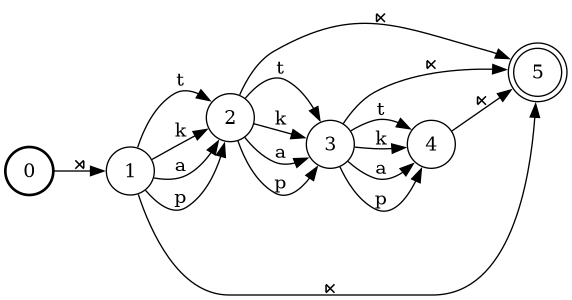
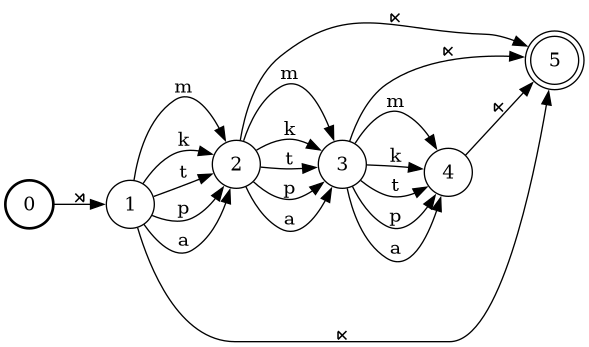
sample from loglinear model

diff --git a/wynini/loglinear.py b/wynini/loglinear.py
@@ -138,9 +138,50 @@ def assign_weights_vec(wfst, V, w):
     return wfst
 
 
+def logZ(wfst, w=None, verbose=False):
+    """
+    Log partition function given feature weights w -or-
+    with weights already applied.
+    All feature values and weights should be non-negative.
+    """
+    if w:
+        assign_weights(wfst, w)
+
+    # Backward potentials (for each state q,
+    # sum over all paths from q to finals).
+    beta = shortestdistance(wfst, reverse=True)
+    beta = [float(w) for w in beta]
+    if verbose:
+        print(f'beta: {beta}')
+
+    # Log partition function
+    # (sum over all paths through machine).
+    q0 = wfst.start_id()
+    logZ = -beta[q0]
+    if verbose:
+        print(f'logZ: {logZ}')
+
+    return logZ
+
+
+def sample(wfst, n=1, w=None, ret_type='outputs', verbose=False):
+    """
+    Random sample of paths (with replacement) given
+    feature weights w -or- with weights already applied.
+    All feature values and weights should be non-negative.
+    """
+    if w:
+        assign_weights(wfst, w)
+    if verbose:
+        print(wfst.info())
+    wfst.push_weights(reweight_type='to_initial')
+    ret = wfst.randgen(npath=n, select='log_prob')
+    return ret
+
+
 def expected(wfst, w=None, N=1, verbose=False):
     """
-    Expected per-string violation counts of features/constraints
+    Expected per-path violation counts of features/constraints
     given feature weights w -or- with weights already applied.
     Optionally scale expected values by data size N.
     All feature values and weights should be non-negative.
@@ -198,32 +239,6 @@ def expected(wfst, w=None, N=1, verbose=False):
     return expect, logZ
 
 
-def logZ(wfst, w=None, verbose=False):
-    """
-    Log partition function given feature weights w -or-
-    with weights already applied.
-    All feature values and weights should be non-negative.
-    """
-    if w:
-        assign_weights(wfst, w)
-
-    # Backward potentials (for each state q,
-    # sum over all paths from q to finals).
-    beta = shortestdistance(wfst, reverse=True)
-    beta = [float(w) for w in beta]
-    if verbose:
-        print(f'beta: {beta}')
-
-    # Log partition function
-    # (sum over all paths through machine).
-    q0 = wfst.start_id()
-    logZ = -beta[q0]
-    if verbose:
-        print(f'logZ: {logZ}')
-
-    return logZ
-
-
 def gradient(O, E, N=1, grad=None):
     """
     Negative gradient of feature weights computed from 
@@ -277,8 +292,7 @@ def pprint_vals(vals, ftrs=None, N=1):
     if ftrs is None:
         ftrs = vals.keys()
     for ftr in ftrs:
-        val = vals.get(ftr, 0.0)
-        val = np.round(N * val, 2)
+        val = N * vals.get(ftr, 0.0)
         ret.append(f'{ftr}: {val:.2f}')
     ret = '{' + ', '.join(ret) + '}'
     return ret

diff --git a/demo/loglinear_ops.py b/demo/loglinear_ops.py
@@ -9,7 +9,7 @@ from wynini import loglinear
 
 config.init()
 
-syms = ['p', 't', 'k', 'a']
+syms = ['p', 't', 'k', 'm', 'a']
 
 # Acceptor for observed strings.
 dat = [ \
@@ -33,17 +33,14 @@ M.print(acceptor=True, show_weight_one=True)
 M.draw('fig/M.dot', fig='png')
 
 # Map from arc to violation vector.
-ftrs = ['*p', '*t', '*a']
+ftrs = [f'*{x}' for x in syms]
 
 
 def phi_func(wfst, q, t):
-    if wfst.ilabel(t) == 'p':
-        return {'*p': 1.}
-    if wfst.ilabel(t) == 't':
-        return {'*t': 1.}
-    if wfst.ilabel(t) == 'a':
-        return {'*a': 1.}
-    return None
+    ilabel = wfst.ilabel(t)
+    if ilabel in [config.epsilon, config.bos, config.eos]:
+        return None
+    return {f'*{ilabel}': 1.0}
 
 
 D.assign_features(phi_func)
@@ -54,7 +51,7 @@ M.assign_features(phi_func)
 #D.assign_weights(lambda D, q, t: 0.)
 observe, logZ = loglinear.expected(D, w=None, verbose=False)
 print('Observed: ', end='')
-loglinear.print_ftrs(observe, ftrs)
+loglinear.print_vals(observe, ftrs)
 print(f'logZ = {logZ}, Z = {np.exp(logZ)}')
 
 print('Arc violation vectors:')
@@ -62,8 +59,12 @@ for _t in M.phi:
     print(f'\t{_t} -> {M.phi[_t]}')
 
 # Initial constraint weights (non-negative).
-w = {'*p': 1., '*t': 1., '*a': 1.}
+w = {ftr: 1.0 for ftr in ftrs}
 print('Constraint weights:', w)
+
+# Random sample before training.
+sample = loglinear.sample(M, 10, w=w, ret_type='outputs')
+print('Sample:', sample)
 
 nstep = 5  # Number of gradient updates.
 alpha = 0.5  # Learning rate.
@@ -73,24 +74,30 @@ for _ in range(nstep):
 
     # Observed constraint violations.
     print('Observed: ', end='')
-    loglinear.print_ftrs(observe, ftrs)
+    loglinear.print_vals(observe, ftrs)
 
     # Expected per-string constraint violations scaled by N.
     expect, _ = loglinear.expected(M, w, N, verbose=False)
     print('Expected: ', end='')
-    loglinear.print_ftrs(expect, ftrs)
+    loglinear.print_vals(expect, ftrs)
 
     # Gradient.
     grad = loglinear.gradient(observe, expect, grad=None)
     print(f'Gradient: ', end='')
-    loglinear.print_ftrs(grad, ftrs)
+    loglinear.print_vals(grad, ftrs)
 
     # Constraint weight update.
     loglinear.update(w, grad, alpha)
     print(f'w: ', end='')
-    loglinear.print_ftrs(w, ftrs)
+    loglinear.print_vals(w, ftrs)
 
     print()
+
+# Random sample after training.
+sample = loglinear.sample(M, 10, ret_type='outputs')
+print('Sample:', sample)
+
+sys.exit(0)
 
 # # # # # # # # # #
 

diff --git a/wynini/wywrapfst.py b/wynini/wywrapfst.py
@@ -1368,12 +1368,20 @@ class Wfst():
         ret_type = ret_type.lower()
         if ret_type == 'fst':
             return fst_out
-        elif ret_type == 'wfst':
-            wfst_out = Wfst.from_fst(fst_out)
+
+        wfst_out = Wfst.from_fst(fst_out)
+        if ret_type == 'wfst':
             return wfst_out
-        # Default: return output strings.
-        path_iter = fst_out.paths(output_token_type=osymbols)
-        return path_iter.ostrings()
+        # todo: use `yield from``
+        if ret_type in ('inputs', 'istrings'):
+            return wfst_out.istrings()
+        if ret_type in ('outputs', 'ostrings'):
+            return wfst_out.ostrings()
+        if ret_type in ('iostrings'):
+            return wfst_out.iostrings()
+
+        print(f'Return type not recognized ({ret_type}).')
+        return None
 
     def transduce(self, x, add_delim=False, ret_type='outputs'):
         """
